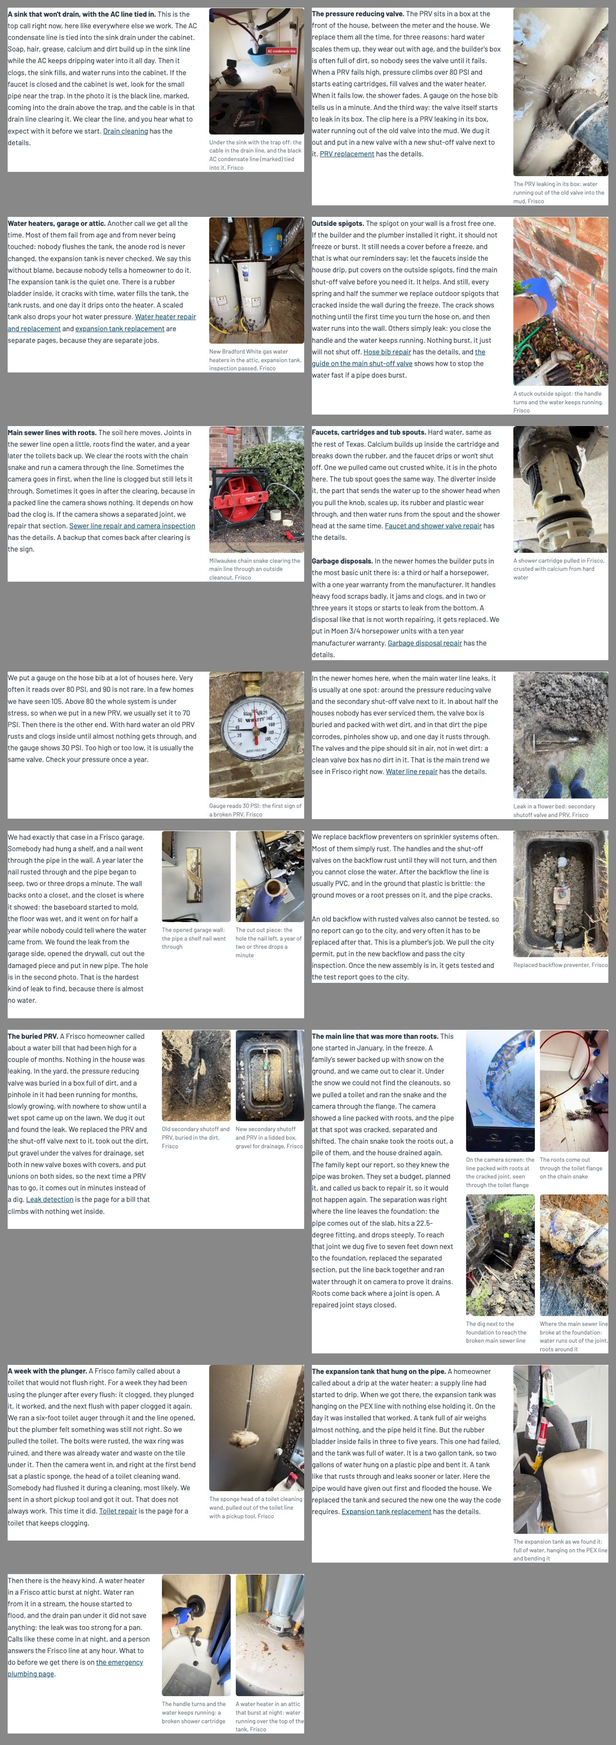
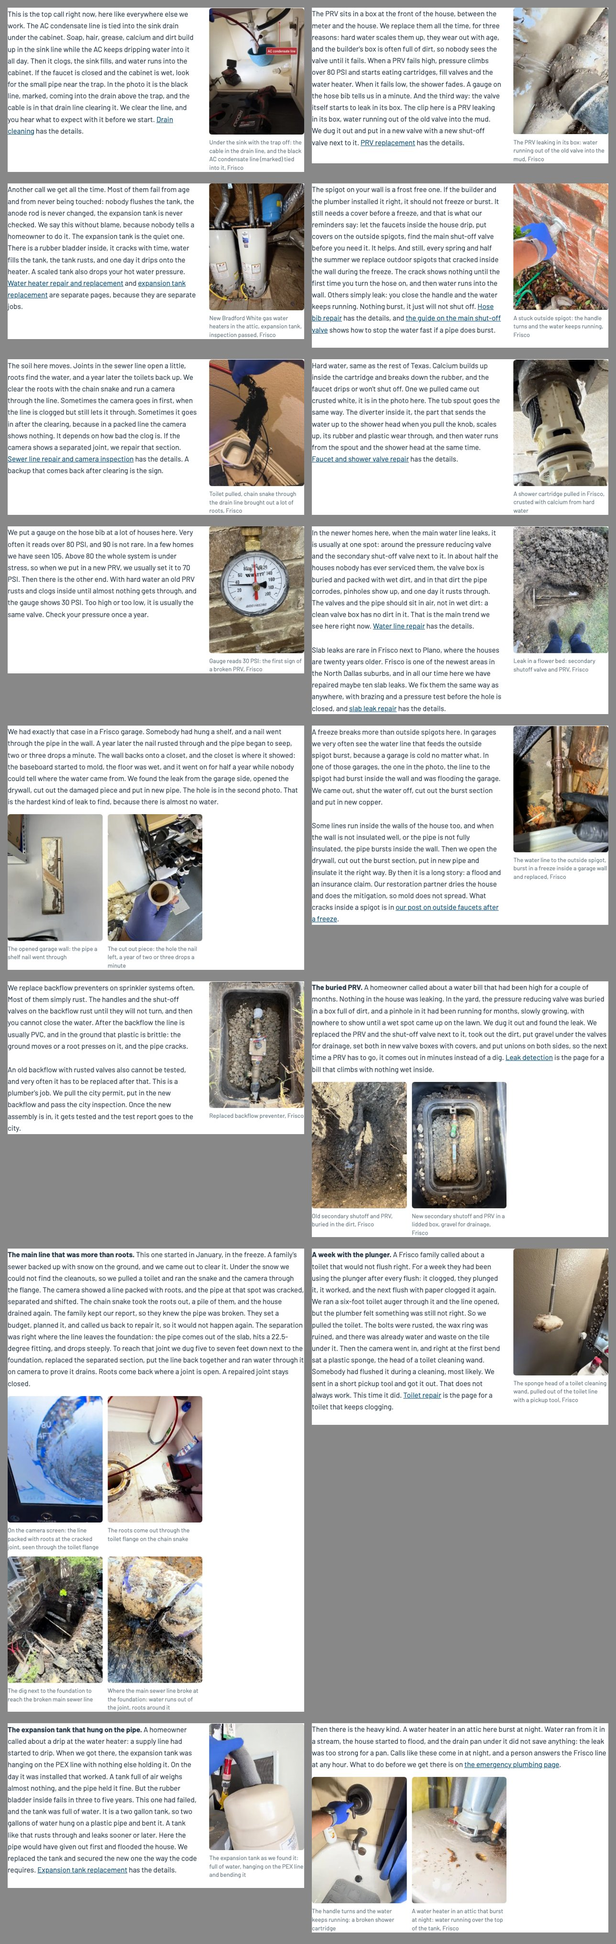
Journal 02.10.2026 23:19

diff --git a/check.html b/check.html
@@ -10,7 +10,7 @@ a{color:var(--accent)}code{font-size:15px;background:rgba(127,127,127,.15);paddi
 li{margin:4px 0}.stamp{color:var(--muted);font-size:14px;margin:0 0 16px}
 table{display:block;overflow-x:auto;border-collapse:collapse;font-size:14px;line-height:1.35;margin:12px 0}
 th,td{padding:5px 9px;border-bottom:1px solid var(--line);text-align:left;vertical-align:top}th{position:sticky;top:0;background:var(--bg)}
-</style></head><body><main><p class="stamp">Опубликовано 02.10.2026 23:09</p><h1>2 октября 2026, ночь: единый блок чата (Frisco версия 3, главная, техника) и пятая история на главной</h1>
+</style></head><body><main><p class="stamp">Опубликовано 02.10.2026 23:19</p><h1>2 октября 2026, ночь: единый блок чата (Frisco версия 3, главная, техника) и пятая история на главной</h1>
 <p>Исходное состояние: коммит 9de92f8. Выполнены части A, B, C, D и E единого блока и отдельное дополнение Дениса по главной (новая первая история в «From the Job» с клипом 165). Часть F (контуры городов для фото, бриф Plano) по блоку оставлена на следующую сессию. Тестовый сайт обновлён: https://fppplumbing-preview.pages.dev.</p>
 <h2>Коротко</h2>
 <ul>
@@ -84,6 +84,8 @@ th,td{padding:5px 9px;border-bottom:1px solid var(--line);text-align:left;vertic
 <li>История «One clog, the whole house» получила пару: фото 204, душевой поддон после обратного тока, и кадр из видео 183, ванна и унитаз полные (секунда 1,2 видео, цвета переведены из HDR). Пара стоит двумя равными ячейками.</li>
 <li>Оба фото занесены в архив (photos/originals, index.csv, captions.csv, captions-en.csv, slugs.csv); города на главной в подписях нет. Проверки сайта 28 из 28, вёрстка главной чиста на шести ширинах, LCP по оценке проекта 1,37 с. Снимок блока: <a href="img/blocks-home-1280.jpg">главная, «From the Job» на 1280</a>, <a href="img/blocks-home-390.jpg">на телефоне</a>. Коммит 976ca15.</li>
 </ul>
+<h2>Замечание Дениса после отчёта: размер фотографий</h2>
+<p>«Одни большие, другие маленькие», особенно пара с гвоздём на Frisco, где ничего не было видно. Сделано одно правило размера: каждая картинка на странице одной ширины и одной формы 3:4, клипы тоже (клип обрезается по ячейке). На компьютере это треть колонки текста: одно фото стоит справа от своего абзаца, пара и четвёрка стоят под своим абзацем, по два в ряд, ячейками того же размера. На телефоне каждая картинка во всю ширину, одна под другой, пары тоже. Замер на собранных страницах: Frisco все ячейки 358 на 477 px на телефоне и 221 на 294 px на 1280; истории главной 340 на 453 и 337 на 450. Вёрстка чиста на шести ширинах, проверки 28 из 28. Правило записано в design/layout-rules.md и CLAUDE.md. Снимки: <a href="img/blocks-plumber-frisco-tx-1280.jpg">Frisco 1280</a>, <a href="img/blocks-plumber-frisco-tx-390.jpg">Frisco телефон</a>. Коммит c1af4fc.</p>
 <h2>Часть C. Техника</h2>
 <ul>
 <li>C1. Один список услуг для выпадающего списка Services, меню Menu и подвала: порядок из блока, длинные названия (tools/export_design.py SERVICE_ORDER, design.services). Отдельный список меню в Header.astro убран.</li>

diff --git a/seo-build-technical-2026-10-01.html b/seo-build-technical-2026-10-01.html
@@ -10,7 +10,7 @@ a{color:var(--accent)}code{font-size:15px;background:rgba(127,127,127,.15);paddi
 li{margin:4px 0}.stamp{color:var(--muted);font-size:14px;margin:0 0 16px}
 table{display:block;overflow-x:auto;border-collapse:collapse;font-size:14px;line-height:1.35;margin:12px 0}
 th,td{padding:5px 9px;border-bottom:1px solid var(--line);text-align:left;vertical-align:top}th{position:sticky;top:0;background:var(--bg)}
-</style></head><body><main><p class="stamp">Опубликовано 02.10.2026 23:09</p><h1>Технический аудит и аудит схемы новой сборки, 1 октября 2026, 14:15</h1>
+</style></head><body><main><p class="stamp">Опубликовано 02.10.2026 23:19</p><h1>Технический аудит и аудит схемы новой сборки, 1 октября 2026, 14:15</h1>
 <p>Что проверяли: новую сборку сайта (папка site/dist, сборка от 1 октября 13:11), запущенную у меня на компьютере через эмулятор Cloudflare Pages (wrangler pages dev). Эмулятор ведет себя как настоящий Cloudflare: те же перенаправления, те же заголовки, та же страница 404. Тестовый сайт в интернете закрыт входом по почте (Cloudflare Access), туда я не заходил.</p>
 <p>Проверено: все 64 адреса из списка старого сайта, robots.txt, sitemap.xml, llms.txt, llms-full.txt, все 300 правил перенаправления, страница 404, адреса без косой черты в конце, canonical, заголовки страниц, внутренние ссылки, все 370 картинок, вес страниц, скорость на телефоне по нашему инструменту (tools/perf_budget.py, бюджет 1,6 секунды) и вся схема на каждой странице против словаря schema.org.</p>
 <p>Методика: плагин claude-seo (навыки seo-technical, seo-schema, seo-sitemap, seo-images, seo-geo, seo-page) и его скрипты parse_html, sitemap_discovery, preload_check, metadata_template, agentic_check. Советы плагина здесь только предложения. Где плагин советует то, что запрещает CLAUDE.md или файл голоса Дениса, это вынесено в раздел 4 и в список правок не попало. Модуль programmatic SEO не использовался.</p>

diff --git a/seo-baseline-live-2026-10-01.html b/seo-baseline-live-2026-10-01.html
@@ -10,7 +10,7 @@ a{color:var(--accent)}code{font-size:15px;background:rgba(127,127,127,.15);paddi
 li{margin:4px 0}.stamp{color:var(--muted);font-size:14px;margin:0 0 16px}
 table{display:block;overflow-x:auto;border-collapse:collapse;font-size:14px;line-height:1.35;margin:12px 0}
 th,td{padding:5px 9px;border-bottom:1px solid var(--line);text-align:left;vertical-align:top}th{position:sticky;top:0;background:var(--bg)}
-</style></head><body><main><p class="stamp">Опубликовано 02.10.2026 23:09</p><h1>Аудит старого сайта fppplumbing.com: точка отсчёта до переезда (1 октября 2026, 14:10)</h1>
+</style></head><body><main><p class="stamp">Опубликовано 02.10.2026 23:19</p><h1>Аудит старого сайта fppplumbing.com: точка отсчёта до переезда (1 октября 2026, 14:10)</h1>
 <p>Что это: полный SEO аудит сайта, который сейчас работает на WordPress. Это снимок «до». После переезда на новый сайт мы сделаем такой же снимок «после» и сравним по тем же пунктам.</p>
 <p>Как проверяли: по методике плагина Claude SEO 2.4.1 (оригинальный репозиторий AgriciDaniel/claude-seo). Шли по шагам главного навыка seo-audit и по его частям: технический аудит (seo-technical), тексты и доверие (seo-content), разметка (seo-schema), картинки (seo-images), карта сайта (seo-sitemap), готовность к AI поиску (seo-geo), разбор отдельных страниц (seo-page). Модуль programmatic SEO не использовался. Советы плагина здесь только предложения: где плагин советует то, что запрещает CLAUDE.md или файл голоса Дениса, это вынесено в раздел 4 и в список правок не попало.</p>
 <p>Откуда данные:

diff --git a/home-live-vs-v4-2026-10-01.html b/home-live-vs-v4-2026-10-01.html
@@ -10,7 +10,7 @@ a{color:var(--accent)}code{font-size:15px;background:rgba(127,127,127,.15);paddi
 li{margin:4px 0}.stamp{color:var(--muted);font-size:14px;margin:0 0 16px}
 table{display:block;overflow-x:auto;border-collapse:collapse;font-size:14px;line-height:1.35;margin:12px 0}
 th,td{padding:5px 9px;border-bottom:1px solid var(--line);text-align:left;vertical-align:top}th{position:sticky;top:0;background:var(--bg)}
-</style></head><body><main><p class="stamp">Опубликовано 02.10.2026 23:09</p><h1>Живая главная против новой (v4): что выиграли для SEO</h1>
+</style></head><body><main><p class="stamp">Опубликовано 02.10.2026 23:19</p><h1>Живая главная против новой (v4): что выиграли для SEO</h1>
 <p>1 октября 2026. Сравнение сегодняшней главной на fppplumbing.com с новой главной v4 на тестовом сайте. Живую страницу я заново скачал и открыл в браузере в размере телефона. Цифры по запросам из Search Console (сервис Google, который показывает, по каким запросам сайт видят в поиске и на каком месте).</p>
 <h2>Короткий ответ</h2>
 <p>Выиграли, но не там, где хочется. Сам текст не поднимет главную по «plumber near me» с 27 места: это решают карточки в Google Картах, отзывы и ссылки с других сайтов. Новая главная выигрывает в трех вещах: она в разы легче и быстрее, на ней нет ошибок и неправды со старой страницы, и в тексте стоят слова, по которым Google уже показывает главную. По аварийным запросам мы ничего не выиграли, а защитили то, что есть.</p>

diff --git a/seo-audit-2026-10-01.html b/seo-audit-2026-10-01.html
@@ -10,7 +10,7 @@ a{color:var(--accent)}code{font-size:15px;background:rgba(127,127,127,.15);paddi
 li{margin:4px 0}.stamp{color:var(--muted);font-size:14px;margin:0 0 16px}
 table{display:block;overflow-x:auto;border-collapse:collapse;font-size:14px;line-height:1.35;margin:12px 0}
 th,td{padding:5px 9px;border-bottom:1px solid var(--line);text-align:left;vertical-align:top}th{position:sticky;top:0;background:var(--bg)}
-</style></head><body><main><p class="stamp">Опубликовано 02.10.2026 23:09</p><h1>SEO аудит: главная и страница slab leak, 1 октября 2026</h1>
+</style></head><body><main><p class="stamp">Опубликовано 02.10.2026 23:19</p><h1>SEO аудит: главная и страница slab leak, 1 октября 2026</h1>
 <p>Что проверяли: собранную копию нового сайта (папка site/dist), главную <code>/</code> и страницу <code>/slab-leak-repair-frisco-plano-mckinney/</code>. Смотрели текст, заголовки, схему (schema: скрытая разметка для Google и AI, которая говорит «это компания, это услуга, это вопросы и ответы»), ссылки, фото, скорость. Сравнивали с конкурентами из первой выдачи Google и с данными Search Console за 3 месяца (июль, август, сентябрь 2026).</p>
 <p>Методика: два навыка superseo (eeat-audit и page-audit). Их советы здесь только предложения. Где навык советует то, что запрещает CLAUDE.md или файл голоса Дениса, это вынесено в раздел 5 и не считается находкой.</p>
 <p>Короткий словарь (дальше без пояснений):

diff --git a/deploy-preview.html b/deploy-preview.html
@@ -10,7 +10,7 @@ a{color:var(--accent)}code{font-size:15px;background:rgba(127,127,127,.15);paddi
 li{margin:4px 0}.stamp{color:var(--muted);font-size:14px;margin:0 0 16px}
 table{display:block;overflow-x:auto;border-collapse:collapse;font-size:14px;line-height:1.35;margin:12px 0}
 th,td{padding:5px 9px;border-bottom:1px solid var(--line);text-align:left;vertical-align:top}th{position:sticky;top:0;background:var(--bg)}
-</style></head><body><main><p class="stamp">Опубликовано 02.10.2026 23:09</p><h1>Предпросмотр нового сайта на Cloudflare: как выложить и как закрыть паролем</h1>
+</style></head><body><main><p class="stamp">Опубликовано 02.10.2026 23:19</p><h1>Предпросмотр нового сайта на Cloudflare: как выложить и как закрыть паролем</h1>
 <p>Предпросмотр живёт по адресу https://fppplumbing-preview.pages.dev. Домен fppplumbing.com и DNS не трогаем. На каждой странице стоит запрет для поисковиков (noindex), а вход будет только по вашей почте.</p>
 <h2>Шаг 1. Вход в Cloudflare (уже сделан)</h2>
 <p>Вы уже вошли командой <code>npx --yes wrangler@latest login</code> (папка проекта, локальный Node). Повторять не нужно. Если когда-нибудь вход слетит: откройте Терминал, вставьте две строки и подтвердите вход в браузере.</p>

diff --git a/seo-local-2026-10-01.html b/seo-local-2026-10-01.html
@@ -10,7 +10,7 @@ a{color:var(--accent)}code{font-size:15px;background:rgba(127,127,127,.15);paddi
 li{margin:4px 0}.stamp{color:var(--muted);font-size:14px;margin:0 0 16px}
 table{display:block;overflow-x:auto;border-collapse:collapse;font-size:14px;line-height:1.35;margin:12px 0}
 th,td{padding:5px 9px;border-bottom:1px solid var(--line);text-align:left;vertical-align:top}th{position:sticky;top:0;background:var(--bg)}
-</style></head><body><main><p class="stamp">Опубликовано 02.10.2026 23:09</p><h1>Локальный SEO аудит: Google карточки, справочники, видимость на карте</h1>
+</style></head><body><main><p class="stamp">Опубликовано 02.10.2026 23:19</p><h1>Локальный SEO аудит: Google карточки, справочники, видимость на карте</h1>
 <p>Дата и время: 1 октября 2026, 14:15 (Central Time). Автор: Claude, по методике плагина claude-seo 2.4.1 (модули seo-local и seo-maps). Модуль programmatic SEO не использовался.</p>
 <p>Важно: все выводы плагина здесь только предложения. Где плагин советует то, что запрещает CLAUDE.md или voice/denys-voice.md, это вынесено в раздел 4 и в список правок не попало. Тексты сайта, карточки Google и справочники я не менял, только смотрел.</p>
 <p>Термины, один раз:

diff --git a/pages-plan.html b/pages-plan.html
@@ -10,7 +10,7 @@ a{color:var(--accent)}code{font-size:15px;background:rgba(127,127,127,.15);paddi
 li{margin:4px 0}.stamp{color:var(--muted);font-size:14px;margin:0 0 16px}
 table{display:block;overflow-x:auto;border-collapse:collapse;font-size:14px;line-height:1.35;margin:12px 0}
 th,td{padding:5px 9px;border-bottom:1px solid var(--line);text-align:left;vertical-align:top}th{position:sticky;top:0;background:var(--bg)}
-</style></head><body><main><p class="stamp">Опубликовано 02.10.2026 23:09</p><h1>План: усиливаем каждую страницу до переезда</h1>
+</style></head><body><main><p class="stamp">Опубликовано 02.10.2026 23:19</p><h1>План: усиливаем каждую страницу до переезда</h1>
 <p>Решение Дениса, 1 октября 2026: переезд это не только новый вид. Каждую страницу усиливаем так же, как главную. Правило безопасности тоже его: с тем, что уже ранжируется, не рискуем.</p>
 <p>Цифры из Search Console (сервис Google, который показывает запросы, показы и клики) за 3 месяца, с 1 июля по 28 сентября 2026. «Показы» это сколько раз страницу видели в поиске, «место» это средняя позиция.</p>
 <h2>Порядок после главной (задание Дениса, 2 октября 2026)</h2>

diff --git a/home-v3-check-2026-10-01.html b/home-v3-check-2026-10-01.html
@@ -10,7 +10,7 @@ a{color:var(--accent)}code{font-size:15px;background:rgba(127,127,127,.15);paddi
 li{margin:4px 0}.stamp{color:var(--muted);font-size:14px;margin:0 0 16px}
 table{display:block;overflow-x:auto;border-collapse:collapse;font-size:14px;line-height:1.35;margin:12px 0}
 th,td{padding:5px 9px;border-bottom:1px solid var(--line);text-align:left;vertical-align:top}th{position:sticky;top:0;background:var(--bg)}
-</style></head><body><main><p class="stamp">Опубликовано 02.10.2026 23:09</p><h1>Главная v3: финальная проверка (1 октября 2026)</h1>
+</style></head><body><main><p class="stamp">Опубликовано 02.10.2026 23:19</p><h1>Главная v3: финальная проверка (1 октября 2026)</h1>
 <h2>1. Правила проекта: пройдено</h2>
 <p>Скрипт tools/check_text.py (цены, города, «Dallas», обещания времени приезда, телефоны в тексте, тире, слова из запретного списка голосового файла, tankless, reroute, owner, PHCC). До правок нашлось: «can come out right away» в ответе про восстановление (звучит как обещание времени). Исправлено. Сейчас нарушений нет. «Plumber near me» в тексте 6 раз, считая title и описание для Google (в самом тексте 4 раза).</p>
 <h2>2. Совпадения: с конкурентами ноль</h2>

diff --git a/reviews-proposal.html b/reviews-proposal.html
@@ -10,7 +10,7 @@ a{color:var(--accent)}code{font-size:15px;background:rgba(127,127,127,.15);paddi
 li{margin:4px 0}.stamp{color:var(--muted);font-size:14px;margin:0 0 16px}
 table{display:block;overflow-x:auto;border-collapse:collapse;font-size:14px;line-height:1.35;margin:12px 0}
 th,td{padding:5px 9px;border-bottom:1px solid var(--line);text-align:left;vertical-align:top}th{position:sticky;top:0;background:var(--bg)}
-</style></head><body><main><p class="stamp">Опубликовано 02.10.2026 23:09</p><h1>Предложение: отзывы по страницам</h1>
+</style></head><body><main><p class="stamp">Опубликовано 02.10.2026 23:19</p><h1>Предложение: отзывы по страницам</h1>
 <p>Черновик на утверждение Денису, версия от 1 октября 2026. Правила: только пять звезд, текст дословно, один человек на одну страницу по всему сайту, никого из тех, кто уже стоит на старом сайте (проверено по тексту, а не только по имени). Подпись под каждым отзывом по правилу 11: для Google город (только если он есть в тексте отзыва), уровень Local Guide, месяц и год; для Yelp и Thumbtack только площадка, месяц и год, без города автора.</p>
 <h2>Что изменилось и почему</h2>
 <ul>

diff --git a/check-2026-10-02-decisions.html b/check-2026-10-02-decisions.html
@@ -10,7 +10,7 @@ a{color:var(--accent)}code{font-size:15px;background:rgba(127,127,127,.15);paddi
 li{margin:4px 0}.stamp{color:var(--muted);font-size:14px;margin:0 0 16px}
 table{display:block;overflow-x:auto;border-collapse:collapse;font-size:14px;line-height:1.35;margin:12px 0}
 th,td{padding:5px 9px;border-bottom:1px solid var(--line);text-align:left;vertical-align:top}th{position:sticky;top:0;background:var(--bg)}
-</style></head><body><main><p class="stamp">Опубликовано 02.10.2026 23:09</p><h1>2 октября 2026, поздний вечер: сводный блок решений Дениса по отчёту check-2026-10-02-1959</h1>
+</style></head><body><main><p class="stamp">Опубликовано 02.10.2026 23:19</p><h1>2 октября 2026, поздний вечер: сводный блок решений Дениса по отчёту check-2026-10-02-1959</h1>
 <p>Сделано по сводному блоку (он заменил прежние блоки) и по трём замечаниям Дениса, пришедшим по ходу: «hits a 45» это 22.5, клипы нельзя открывать, на телефоне фото картриджа стояло под пунктом про измельчители. Тестовый сайт обновлён: https://fppplumbing-preview.pages.dev (за входом и с noindex). Коммит 341dd03, журнал и правила в отдельном коммите ниже.</p>
 <h2>Коротко</h2>
 <ul>

diff --git a/home-v4-check-2026-10-01.html b/home-v4-check-2026-10-01.html
@@ -10,7 +10,7 @@ a{color:var(--accent)}code{font-size:15px;background:rgba(127,127,127,.15);paddi
 li{margin:4px 0}.stamp{color:var(--muted);font-size:14px;margin:0 0 16px}
 table{display:block;overflow-x:auto;border-collapse:collapse;font-size:14px;line-height:1.35;margin:12px 0}
 th,td{padding:5px 9px;border-bottom:1px solid var(--line);text-align:left;vertical-align:top}th{position:sticky;top:0;background:var(--bg)}
-</style></head><body><main><p class="stamp">Опубликовано 02.10.2026 23:09</p><h1>Главная v4: проверки и повторный аудит (1 октября 2026)</h1>
+</style></head><body><main><p class="stamp">Опубликовано 02.10.2026 23:19</p><h1>Главная v4: проверки и повторный аудит (1 октября 2026)</h1>
 <p>Текст: <code>source/home-text-v4.md</code>. Страница журнала с полным текстом и таблицей изменений: home-v4 (адрес с датой в журнале). Тестовый сайт: https://fppplumbing-preview.pages.dev/ (вход по коду на почту request@fppplumbing.com).</p>
 <h2>1. Что исправлено после замечаний Дениса</h2>
 <p>Первый вариант v4 Денис забраковал по трем местам. Все три исправлены до этого отчета:</p>
